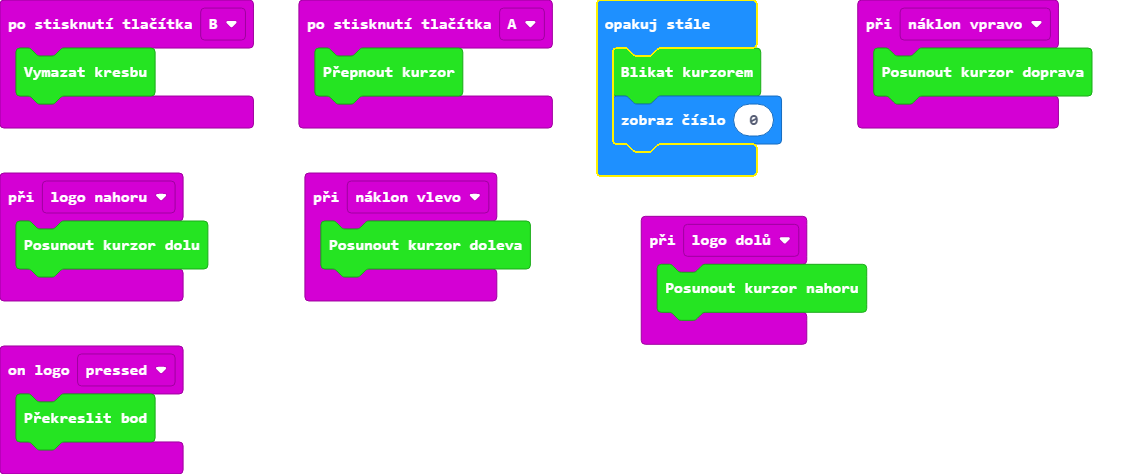
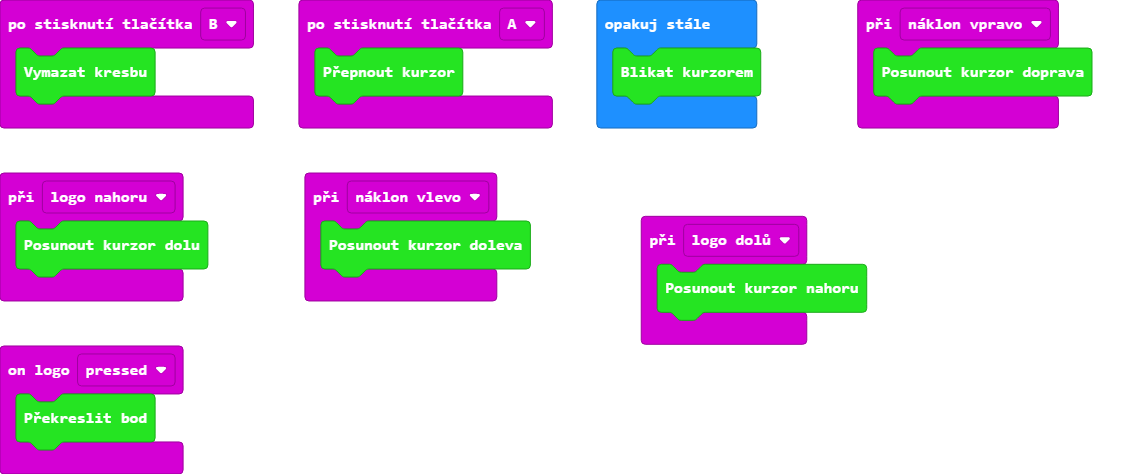
finished

Changed region(s): [[0.5201, 0.0886, 0.7037, 0.384], [0.5201, 0.0, 0.5507, 0.0295]]

diff --git a/main.ts b/main.ts
@@ -21,5 +21,4 @@ input.onLogoEvent(TouchButtonEvent.Pressed, function () {
 })
 basic.forever(function () {
     Malovani.BlikaniKurzoru()
-    basic.showNumber(0)
 })
